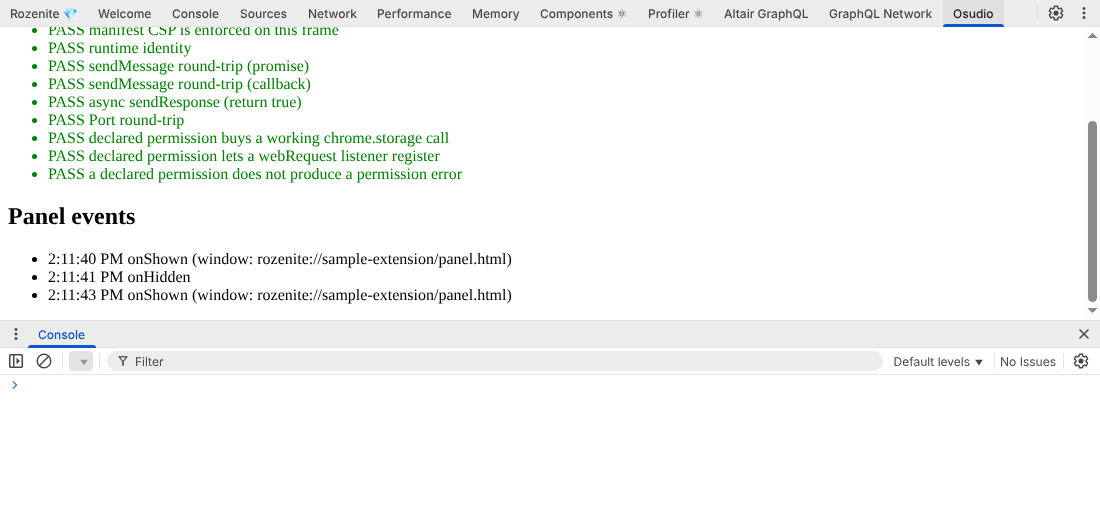
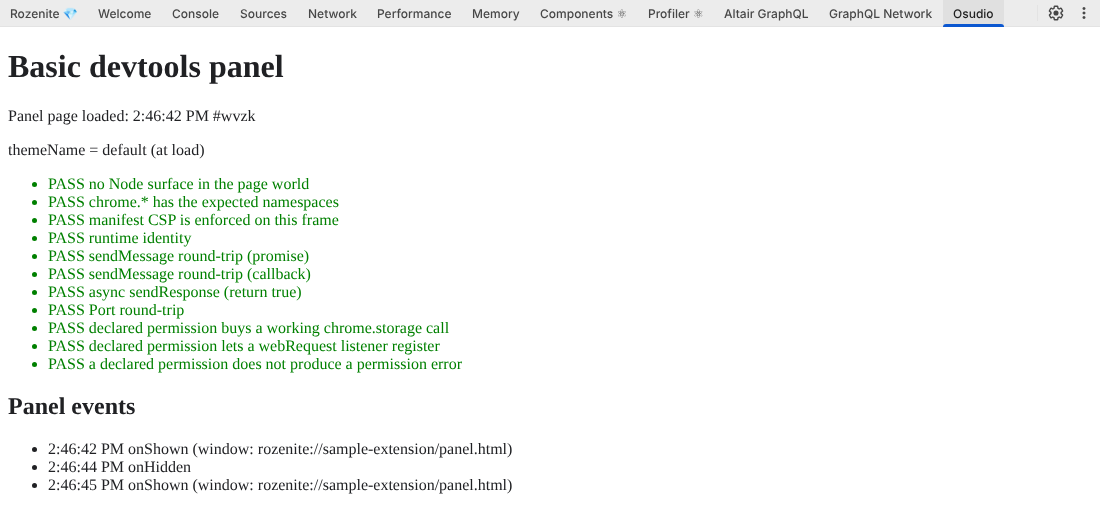
Panel events: review fixes, showPanel producer, Electron test
- Reconciled with the theme branch: one isFrontendFrame, reports ride
  window.__SHELL_HOST__, panels.create is assigned onto the existing object so
  themeName stays a live getter, one devtoolsShim.
- Frontend window denies blank window.open (policy file), so a failed panel-frame
  lookup returns null instead of a visible window; the close() workaround is gone.
- panelIdFor is injective across extensions (length-prefixed extension id); a panel's
  seat can only be taken over by the same extension; panels.create requires an
  existing page file.
- Panel views are setHideOnDetach: panel pages survive hide/show like Chrome; later
  shows report immediately, only the first waits for load.
- _panelId no longer on the page-visible Panel.
- Host -> frontend showPanel producer (panelHost.showPanel, DEVTOOLS_SHOW_PANEL) and the
  one-word fix to the dispatch channel (executeInMainWorld takes `args`).
- tests/panel-events-electron.test.js (production bridge + fake legacy.js), harness
  --panel-bridge flag; evidence re-captured, driver committed.

Claude-Session: https://claude.ai/code/session_014t16GNp5qFhP23Hv7yXpPQ

diff --git a/docs/evidence/panel-events/drive.js b/docs/evidence/panel-events/drive.js
@@ -1,0 +1,100 @@
+// CDP driver that produced the screenshots in this folder (see README.md).
+//   node docs/evidence/panel-events/drive.js <out-dir> [electron-port=9234]
+// Needs the shell running with --remote-debugging-port=<electron-port> and
+// DEVTOOLS_SHOW_PANEL=sample-extension/panel.html, so the shell itself selects the panel
+// through the `showPanel` dispatch event before anything is clicked.
+const fs = require("fs");
+const http = require("http");
+const WebSocket = require("ws");
+
+const OUT = process.argv[2];
+const PORT = process.argv[3] || "9234";
+const sleep = (ms) => new Promise((r) => setTimeout(r, ms));
+const getJSON = (url) =>
+  new Promise((resolve, reject) =>
+    http.get(url, (res) => { let d = ""; res.on("data", (c) => (d += c)); res.on("end", () => resolve(JSON.parse(d))); }).on("error", reject)
+  );
+
+const connect = async (match) => {
+  const t = (await getJSON(`http://127.0.0.1:${PORT}/json/list`)).find(match);
+  if (!t) throw new Error("target not found");
+  const ws = new WebSocket(t.webSocketDebuggerUrl);
+  await new Promise((r) => ws.on("open", r));
+  let id = 0;
+  const pending = new Map();
+  const events = [];
+  ws.on("message", (m) => {
+    const msg = JSON.parse(m);
+    if (msg.id && pending.has(msg.id)) { pending.get(msg.id)(msg); pending.delete(msg.id); } else events.push(msg);
+  });
+  const send = (method, params = {}) => new Promise((r) => { const i = ++id; pending.set(i, r); ws.send(JSON.stringify({ id: i, method, params })); });
+  const evaluate = async (expression) => (await send("Runtime.evaluate", { expression, returnByValue: true })).result.result.value;
+  return { send, events, evaluate };
+};
+
+const DEEP = `const deep=(id)=>{let f=null;const walk=(root)=>{for(const el of root.querySelectorAll('*')){if(el.id===id)f=el;if(el.shadowRoot)walk(el.shadowRoot);}};walk(document);return f;};`;
+const OSUDIO = "tab-ext.16.sample-extension.panel.html";
+const PANEL_ID = "ext.16.sample-extension.panel.html";
+const OTHER = "tab-network";
+
+const logLines = (c) =>
+  c.events.filter((e) => e.method === "Runtime.consoleAPICalled")
+    .map((e) => e.params.args.map((a) => a.value).join(" ")).filter((l) => l.includes("[panel-events]"));
+
+(async () => {
+  const frontend = async () => {
+    const c = await connect((x) => x.url.includes("rn_fusebox"));
+    await c.send("Emulation.setDeviceMetricsOverride", { width: 1100, height: 520, deviceScaleFactor: 1, mobile: false });
+    return c;
+  };
+  const shot = async (c, name) =>
+    fs.writeFileSync(`${OUT}/${name}.png`, Buffer.from((await c.send("Page.captureScreenshot", { format: "png" })).result.data, "base64"));
+  const click = async (c, id) => {
+    const [x, y] = await c.evaluate(`(() => { ${DEEP} const b = deep(${JSON.stringify(id)}).getBoundingClientRect(); return [b.x + b.width / 2, b.y + b.height / 2]; })()`);
+    for (const type of ["mousePressed", "mouseReleased"]) await c.send("Input.dispatchMouseEvent", { type, x, y, button: "left", clickCount: 1 });
+  };
+  const scrollPanel = (dev) => dev.send("Runtime.evaluate", { expression: "panelWindow.scrollTo(0, 99999)" });
+  const selected = (c, id) => c.evaluate(`(() => { ${DEEP} const t = deep(${JSON.stringify(id)}); return t && t.getAttribute('aria-selected'); })()`);
+
+  let dev = await connect((x) => x.url.startsWith("rozenite://sample-extension/devtools.html"));
+  await dev.send("Runtime.enable");
+  let main = await frontend();
+  await sleep(1500);
+
+  // 1. nothing clicked: the shell's own showPanel (DEVTOOLS_SHOW_PANEL) selected Osudio
+  console.log("osudio selected before any click:", await selected(main, OSUDIO));
+  await shot(main, "1-showpanel-no-click");
+
+  await click(main, OTHER); await sleep(900);
+  await shot(main, "2-network-selected");
+  await click(main, OSUDIO); await sleep(900);
+  await scrollPanel(dev); await sleep(200);
+  await shot(main, "3-osudio-reshown-same-page");
+
+  // 4. showPanel again from the Network tab, the way the preload's dispatcher calls it
+  await click(main, OTHER); await sleep(700);
+  await main.evaluate(`window.InspectorFrontendAPI.showPanel(${JSON.stringify(PANEL_ID)})`);
+  await sleep(900);
+  console.log("osudio selected after showPanel dispatch:", await selected(main, OSUDIO));
+  await scrollPanel(dev); await sleep(200);
+  await shot(main, "4-showpanel-from-network");
+  const before = logLines(dev);
+  console.log("devtools-page console (before reload):\n" + before.join("\n"));
+
+  // 5. frontend reload: new devtools page, panel deduped, events still flow
+  await main.send("Page.reload", {});
+  await sleep(14000);
+  dev = await connect((x) => x.url.startsWith("rozenite://sample-extension/devtools.html"));
+  await dev.send("Runtime.enable");
+  main = await frontend();
+  await sleep(1000);
+  await click(main, OSUDIO); await sleep(1500);
+  await click(main, OTHER); await sleep(800);
+  await click(main, OSUDIO); await sleep(1000);
+  await scrollPanel(dev); await sleep(200);
+  await shot(main, "5-after-frontend-reload");
+  const after = logLines(dev);
+  console.log("devtools-page console (after reload):\n" + after.join("\n"));
+  fs.writeFileSync(`${OUT}/console.txt`, `# before frontend reload\n${before.join("\n")}\n# after frontend reload (new devtools page, panel deduped)\n${after.join("\n")}\n`);
+  process.exit(0);
+})().catch((e) => { console.error(e); process.exit(1); });

diff --git a/extensions/sample-extension/devtools.js b/extensions/sample-extension/devtools.js
@@ -1,29 +1,15 @@
 // Panel.onShown / onHidden (docs/features/DEVTOOLS-PANELS.md): onShown receives the
 // panel page's own window, so this devtools page can write straight into the panel's
-// document — which is also how a person sees the events happen.
-//
-// DevTools detaches a hidden tab's content, so the panel page is re-created on every
-// show; the devtools page is the long-lived side, so it keeps the history and
-// re-renders all of it into whichever window onShown hands over.
-const history = [];
-
-const render = (win) => {
-  const list = win && win.document && win.document.getElementById("panel-events");
-  if (!list) {
-    return;
-  }
-  list.textContent = "";
-  for (const text of history) {
-    const item = win.document.createElement("li");
-    item.textContent = text;
-    list.appendChild(item);
-  }
-};
-
+// document — which is also how a person sees the events happen. The panel page stays
+// alive while its tab is hidden (like Chrome's), so the list simply grows.
 const record = (text, win) => {
   console.log(`[panel-events] ${text}`);
-  history.push(`${new Date().toLocaleTimeString()} ${text}`);
-  render(win);
+  const list = win && win.document && win.document.getElementById("panel-events");
+  if (list) {
+    const item = win.document.createElement("li");
+    item.textContent = `${new Date().toLocaleTimeString()} ${text}`;
+    list.appendChild(item);
+  }
 };
 
 let panelWindow = null;
@@ -33,8 +19,7 @@ chrome.devtools.panels.create("Osudio", null, "/panel.html", (panel) => {
     record(`onShown (window: ${win ? win.location.href : "none"})`, win);
   });
   panel.onHidden.addListener(() => {
-    // onHidden carries no window in Chrome either; the one from onShown is still
-    // reachable until the panel page is torn down.
+    // onHidden carries no window in Chrome either; the one from onShown is still live
     record("onHidden", panelWindow);
   });
 });

diff --git a/tests/panel-events.test.js b/tests/panel-events.test.js
@@ -155,3 +155,28 @@ test("only the frontend's own main frame may report visibility", () => {
     false
   );
 });
+
+// ── showPanel (host -> frontend) ─────────────────────────────────────────────
+test("showPanel only asks the frontend to show a panel this host registered", async () => {
+  const { setFrontendWebContents } = require("../src/main/dispatch");
+  const { HOST_EVENT } = require("../src/shared/ipc");
+  const sent = [];
+  setFrontendWebContents({ isDestroyed: () => false, send: (channel, payload) => sent.push([channel, payload]) });
+
+  register("ext-show", "/p.html");
+  const id = panelIdFor("ext-show", "/p.html");
+  assert.strictEqual(await panelHost.showPanel(id), true);
+  assert.deepStrictEqual(sent, [[HOST_EVENT, { name: "showPanel", args: [id] }]]);
+
+  assert.strictEqual(await panelHost.showPanel("ext.9.nobody.x.html"), false, "unregistered id");
+  assert.strictEqual(await panelHost.showPanel("network"), false, "a built-in tab is not ours to show");
+  assert.strictEqual(await panelHost.showPanel(undefined), false);
+  assert.strictEqual(sent.length, 1, "nothing else was dispatched");
+});
+
+test("the frontend window denies blank window.open but keeps real opens", () => {
+  const { windowOpenHandler } = require("../src/main/window-open-policy");
+  assert.deepStrictEqual(windowOpenHandler({ url: "" }), { action: "deny" });
+  assert.deepStrictEqual(windowOpenHandler({ url: "about:blank" }), { action: "deny" });
+  assert.deepStrictEqual(windowOpenHandler({ url: "https://example.com" }), { action: "allow" });
+});

diff --git a/src/preload/extension-frame.js b/src/preload/extension-frame.js
@@ -454,7 +454,7 @@ contextBridge.executeInMainWorld({
     // NAMED after its panel id: `window.open("", name)` resolves an existing named frame
     // without navigating it and returns its WindowProxy, which is fully scriptable from
     // here once the panel has loaded, because both pages are `rozenite://<id>`. The
-    // shell denies every window.open (src/main/window.js), so a name that matches no
+    // shell denies every blank window.open (src/main/window-open-policy.js), so a name that matches no
     // frame gives null instead of a popup. The listeners of one panel are serialized, so
     // onHidden can never overtake an onShown that is still waiting for the panel to load.
     const panels = merged.devtools.panels;

diff --git a/extensions/sample-extension/panel.js b/extensions/sample-extension/panel.js
@@ -11,6 +11,10 @@
 // every extension page with Chrome's MV3 CSP default (`script-src 'self'`)
 // unless the manifest declares its own, and inline scripts do not survive that
 // policy. That is the policy working — see the "manifest CSP is enforced" check.
+// A token set once per document load: Panel.onShown/onHidden's panel page stays alive
+// across tab switches (docs/features/DEVTOOLS-PANELS.md), so it does not change on re-show.
+document.getElementById("loaded-at").textContent =
+  new Date().toLocaleTimeString() + " #" + Math.random().toString(36).slice(2, 6);
 const results = document.getElementById("results");
 const check = async (name, fn) => {
   try {

diff --git a/tests/extension-frame-harness.js b/tests/extension-frame-harness.js
@@ -308,6 +308,13 @@ app
         response.end("nope");
         return;
       }
+      // A file the page asks for that the fixture does not provide is a 404, not an
+      // unhandled stream error (which would be an uncaught exception in main).
+      if (!fs.existsSync(target) || !fs.statSync(target).isFile()) {
+        response.writeHead(404);
+        response.end("not found");
+        return;
+      }
       response.writeHead(200, {
         "content-type": inner.endsWith(".js") ? "text/javascript" : "text/html",
       });

diff --git a/extensions/sample-extension/panel.html b/extensions/sample-extension/panel.html
@@ -11,6 +11,7 @@
   </head>
   <body>
     <h1>Basic devtools panel</h1>
+    <p>Panel page loaded: <span id="loaded-at"></span></p>
     <p id="theme"></p>
     <ul id="results"></ul>
     <!-- filled by the devtools page's Panel.onShown / onHidden listeners (devtools.js) -->

diff --git a/src/preload/frontend-host.js b/src/preload/frontend-host.js
@@ -51,7 +51,7 @@ ipcRenderer.on(HOST_EVENT, (_event, { name, args }) => {
       }
       method.apply(api, eventArgs);
     },
-    arguments: [name, args || []],
+    args: [name, args || []],
   });
 });
 

diff --git a/docs/evidence/panel-events/README.md b/docs/evidence/panel-events/README.md
@@ -1,43 +1,40 @@
-# Evidence: `Panel.onShown` / `onHidden`
+# Evidence: `Panel.onShown` / `onHidden` and the `showPanel` producer
 
 Real run of the production shell: Electron (Xvfb) hosting the patched Rozenite frontend from the
 shared Metro server, a fake CDP target in front of headless Chromium, and the bundled
-`extensions/sample-extension`. Its devtools page (`devtools.js`) logs each event and writes
-it into the **panel's own DOM** through the `window` that `onShown` receives, so the lists in
-the screenshots are rendered by the devtools page into the panel page.
+`extensions/sample-extension`. Its devtools page (`devtools.js`) logs each event and writes it
+into the **panel's own DOM** through the `window` that `onShown` receives, so the "Panel events"
+list is rendered by the devtools page into the panel page. The shell was started with
+`DEVTOOLS_SHOW_PANEL=sample-extension/panel.html`.
 
-Driven over CDP with real mouse events (`Input.dispatchMouseEvent`) on the tab headers, not by
-calling frontend APIs. The viewport is set to 1100x520 so the Osudio tab is not in the overflow menu.
-
-## Files
+Driven by `drive.js` (this folder) over CDP, with real mouse events
+(`Input.dispatchMouseEvent`) on the tab headers. Viewport 1100x520 so Osudio is not in the
+overflow menu. The panel page is `setHideOnDetach`, so it is **not reloaded** on re-show: the
+"Panel page loaded: <time> #<token>" line at its top is set once per document load, and the
+event list only grows.
 
 | file | shows |
 | --- | --- |
-| `1-osudio-shown.png` | the **Osudio** tab selected; the panel page loaded (`Panel events` section below the checks) |
-| `2-other-hidden.png` | the **Network** tab selected: Osudio is hidden, so its devtools page received `onHidden` |
-| `4-final-log.png` | after Osudio -> Network -> Osudio -> Network -> Osudio: the panel lists `onShown (window: rozenite://sample-extension/panel.html)`, `onHidden`, `onShown`, `onHidden`, `onShown`, i.e. five events in order, each `onShown` carrying a live, same-origin window (the page wrote into it) |
-| `5-after-frontend-reload.png` | the same after a **frontend reload** (`Page.reload`): the devtools page is recreated, `panels.create` dedupes against the replayed tab, and events keep flowing to the new devtools page (`onShown`, `onHidden`, `onShown`) |
-| `console.txt` | the devtools page's console as captured over CDP (`Runtime.consoleAPICalled`): `[panel-events] ...` lines before and after the reload |
-
-Note the panel page itself reloads on each show (DevTools detaches a hidden tab's content), which
-is why the devtools page keeps the history and re-renders it into each fresh window. That is a
-pre-existing divergence from Chrome, documented in `docs/features/DEVTOOLS-PANELS.md`.
+| `1-showpanel-no-click.png` | **Nothing was clicked.** The shell itself selected the Osudio tab through the host -> frontend `showPanel` dispatch (`panelHost.showPanel`, triggered by `DEVTOOLS_SHOW_PANEL`); the panel page is loaded (`Panel page loaded: ... #o71j`) |
+| `2-network-selected.png` | the **Network** tab selected: Osudio is hidden, its devtools page received `onHidden` |
+| `3-osudio-reshown-same-page.png` | Osudio re-selected: the same panel page (list of events kept and extended, not reset) and `onShown` again |
+| `4-showpanel-from-network.png` | from the Network tab, `InspectorFrontendAPI.showPanel("ext.16.sample-extension.panel.html")` (the call the preload's dispatcher makes) switched back to Osudio, and the list shows the full order `onShown, onHidden, onShown, onHidden, onShown`, each `onShown` carrying `window: rozenite://sample-extension/panel.html` |
+| `5-after-frontend-reload.png` | after a **frontend reload** (`Page.reload`): the devtools page is recreated, `panels.create` dedupes against the replayed tab, and events flow to the new devtools page (a fresh list: `onShown, onHidden, onShown`) |
+| `console.txt` | the devtools page's console as captured over CDP (`Runtime.consoleAPICalled`), before and after the reload |
 
 ## Commands
 
 ```sh
-# inspected target
-chrome --headless=new --no-sandbox --remote-debugging-port=9232 \
-  --user-data-dir=<tmp> "data:text/html,<title>target</title>hello" &
+chrome --headless=new --no-sandbox --remote-debugging-port=9232 --user-data-dir=<tmp> \
+  "data:text/html,<title>target</title>hello" &
 node src/tools/fake-cdp.js --chrome-port 9232 --listen-port 9233 \
   --target-url "data:text/html,<title>target</title>hello" &
-# the shell (--no-sandbox only because the sandbox runs as root)
-DEVTOOLS_CDP_BRIDGE=off \
+# --no-sandbox only because the sandbox runs as root
+DEVTOOLS_SHOW_PANEL=sample-extension/panel.html DEVTOOLS_CDP_BRIDGE=off \
 DEVTOOLS_FRONTEND_URL="http://127.0.0.1:8081/rozenite/rn_fusebox.html?ws=localhost:9233" \
   xvfb-run -a -s "-screen 0 1400x900x24" npx electron . --no-sandbox --remote-debugging-port=9234 &
+node docs/evidence/panel-events/drive.js docs/evidence/panel-events 9234
 ```
 
-The driver attached to `http://127.0.0.1:9234` (the frontend page and the sample extension's
-devtools page), set `Emulation.setDeviceMetricsOverride` to 1100x520, clicked
-`tab-ext.sample-extension.panel.html` and `tab-network` through the shadow DOM with
-`Input.dispatchMouseEvent`, captured `Page.captureScreenshot`, then reloaded the frontend and repeated.
+The automated counterpart (production bridge + preload + host in a real Electron process, with
+a fake `legacy.js`) is `tests/panel-events-electron.test.js`.

diff --git a/docs/api/INSPECTOR-FRONTEND-HOST.md b/docs/api/INSPECTOR-FRONTEND-HOST.md
@@ -53,8 +53,8 @@ stub — see "Generate, don't hand-write" in [../ROADMAP.md](../ROADMAP.md).
 | --- | --- | --- |
 | `setInjectedScriptForOrigin(origin, script)` | ✅ **no-op, correctly** | the channel is deleted, not stubbed: `chrome.devtools.*` is implemented shell-side in `src/chrome-shim/devtools.js`, so there is nothing left to ship into frames. Removing it also removed the in-memory per-origin script store, its `new Function` evaluation, and the last two `sendSync` channels. A frontend that awaits the call still gets a clean `undefined`. |
 | `sendMessageToBackend(message)` | ✅ no-op, **correctly** | not a gap: with `?ws=` in the frontend URL the frontend build selects `WebSocketConnection`, and only `MainConnection` calls this method, so it is structurally dead here. The host reaches the backend on that socket itself → [src/main/cdp-bridge.js](../../src/main/cdp-bridge.js) ([features/DISPATCH-CHANNEL.md](../features/DISPATCH-CHANNEL.md)) |
-| `setExtensionPanelVisible(panelId, shown)` (**shell-only**, not in Chrome's host) | ✅ real | the panel bridge reports an extension panel's tab being selected/deselected; main turns it into `Panel.onShown/onHidden` for the creating devtools page (`EXT_PANEL_VISIBILITY` → `EXT_PANEL_EVENT`, accepted from the frontend main frame only) → [features/DEVTOOLS-PANELS.md](../features/DEVTOOLS-PANELS.md) |
-| `events` + `InspectorFrontendAPI` dispatcher (`dispatchMessage`, `dispatchMessageChunk`, `showPanel`, `setInspectedTabId`, `contextMenuItemSelected`, `savedURL`, `revealSourceLine`, `keyEventUnhandled`, `colorThemeChanged`, `reloadInspectedPage`, …) | 🟨 dispatch channel **live**: main dispatches to `window.InspectorFrontendAPI[name]` (upstream impl forwards onto the events EventTarget). First consumer: context menus | `dispatchMessage`/`dispatchMessageChunk` only matter to `MainConnection`, which our `?ws=` URL never builds — dead like `sendMessageToBackend`. Remaining producers (`showPanel`, …) come with the APIs that need them → [features/DISPATCH-CHANNEL.md](../features/DISPATCH-CHANNEL.md) |
+| `window.__SHELL_HOST__.reportPanelVisible(panelId, shown)` (**shell-only**, not part of `InspectorFrontendHost`; exposed next to `reportTheme`) | ✅ real | the panel bridge reports an extension panel's tab being selected/deselected; main turns it into `Panel.onShown/onHidden` for the creating devtools page (`EXT_PANEL_VISIBILITY` → `EXT_PANEL_EVENT`, accepted from the frontend main frame only) → [features/DEVTOOLS-PANELS.md](../features/DEVTOOLS-PANELS.md) |
+| `events` + `InspectorFrontendAPI` dispatcher (`dispatchMessage`, `dispatchMessageChunk`, `showPanel`, `setInspectedTabId`, `contextMenuItemSelected`, `savedURL`, `revealSourceLine`, `keyEventUnhandled`, `colorThemeChanged`, `reloadInspectedPage`, …) | 🟨 dispatch channel **live**: main dispatches to `window.InspectorFrontendAPI[name]` (upstream impl forwards onto the events EventTarget). Consumers: context menus; `showPanel` (host-internal: `panelHost.showPanel`, `DEVTOOLS_SHOW_PANEL`) | `dispatchMessage`/`dispatchMessageChunk` only matter to `MainConnection`, which our `?ws=` URL never builds — dead like `sendMessageToBackend`. Remaining producers come with the APIs that need them → [features/DISPATCH-CHANNEL.md](../features/DISPATCH-CHANNEL.md) |
 | `inspectedURLChanged(url)` | ✅ sets title | fine |
 | `inspectElementCompleted()` | ✅ | fine |
 

diff --git a/docs/features/DISPATCH-CHANNEL.md b/docs/features/DISPATCH-CHANNEL.md
@@ -4,7 +4,7 @@
 | --- | --- |
 | **Status** | 🟨 partial — channel live; **frontend→backend messaging is structurally unused** (the CDP bridge owns the socket instead) |
 | **Tier** | 1 (infrastructure; unblocks most of Tier 1/2) |
-| **Blocks** | panel theme, save flow, eye-dropper, device discovery |
+| **Blocks** | save flow, eye-dropper, device discovery |
 
 ## What Chrome does
 
@@ -67,8 +67,9 @@ onto the frontend's own session by message id, so no second debugger appears on 
 app. First consumer: [inspected-window](INSPECTED-WINDOW.md).
 Still missing:
 
-- No producer yet for `showPanel`/`colorThemeChanged`/etc.; they only become meaningful as
-  extension APIs grow. (`chrome.devtools.panels.setThemeChangeHandler` does not need
+- No producer yet for `colorThemeChanged`/etc.; they only become meaningful as
+  extension APIs grow. (`showPanel` HAS a producer now: `panelHost.showPanel(panelId)` in
+  `src/main/panel-host.js`, see [DEVTOOLS-PANELS.md](DEVTOOLS-PANELS.md#showpanel-host---frontend).) (`chrome.devtools.panels.setThemeChangeHandler` does not need
   `colorThemeChanged`: it rides its own frontend-to-host report channel, see
   [DEVTOOLS-PANELS.md](DEVTOOLS-PANELS.md#theme-themename--setthemechangehandler).)
 
@@ -99,4 +100,11 @@ verification against the running fork). The CDP-command round-trip is implemente
 through the bridge instead of `sendMessageToBackend` — `chrome.devtools.inspectedWindow
 .eval` is an extension-issued CDP command with a real reply, asserted live in
 `extensions/sample-extension/panel.html` (needs a device: unrun = unverified).
-`showPanel` still has no producer.
+`showPanel` has a producer: `panelHost.showPanel(panelId)` dispatches it for a panel this
+host registered (id checked against the live registry; host-internal, no extension API), and
+`DEVTOOLS_SHOW_PANEL=<extensionId>[/<pagePath>]` is its first consumer. Verified live in
+[../evidence/panel-events/](../evidence/panel-events/README.md): the shell opens on the
+extension's tab with nothing clicked, and a `showPanel` dispatch from another tab switches
+back and fires `Panel.onShown`. (A bug on `main` made every dispatched event run without its
+arguments — `executeInMainWorld` takes `args`, not `arguments` — fixed in
+`src/preload/frontend-host.js`.)
